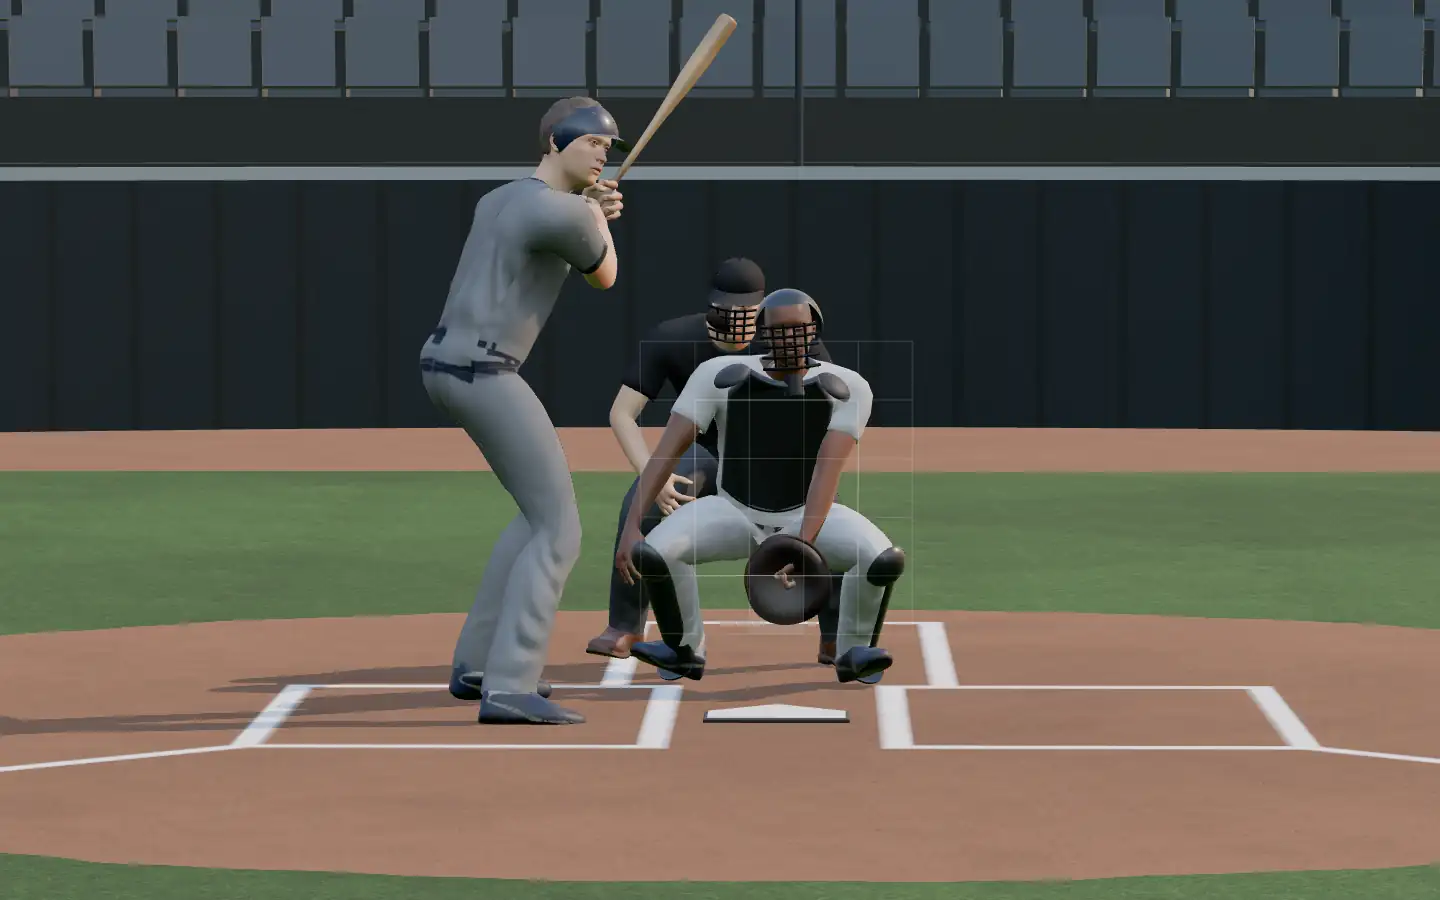
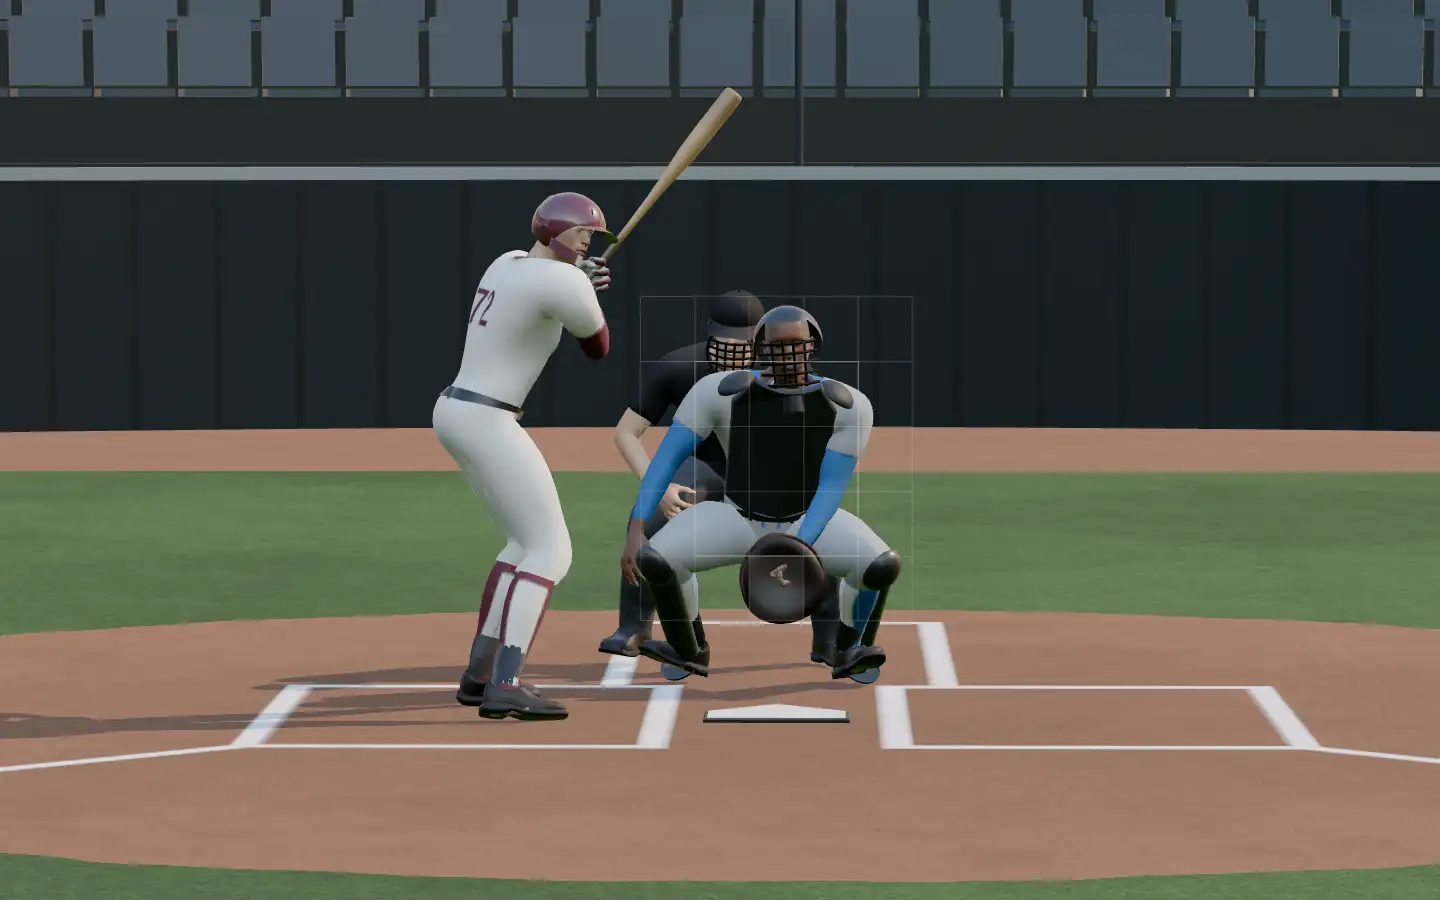
Shut The Door lab: posters of the new look
Claude-Session: https://claude.ai/code/session_01BGQBLpbhaEqJbgB2SftqB3

Changed region(s): [[0.0938, 0.0, 0.625, 0.8089], [0.0, 0.7778, 0.0625, 0.84]]

diff --git a/shut-the-door/lab/index.html b/shut-the-door/lab/index.html
@@ -26,8 +26,8 @@
 } }
 </script>
 <!-- stamp:preload:begin -->
-<link rel="preload" as="image" href="./assets/poster-phone.webp?h=581f5b3efa" media="(orientation: portrait)" fetchpriority="high">
-<link rel="preload" as="image" href="./assets/poster-desktop.webp?h=179185beca" media="(orientation: landscape)" fetchpriority="high">
+<link rel="preload" as="image" href="./assets/poster-phone.webp?h=b638ef170e" media="(orientation: portrait)" fetchpriority="high">
+<link rel="preload" as="image" href="./assets/poster-desktop.webp?h=58c8b648fd" media="(orientation: landscape)" fetchpriority="high">
 <link rel="modulepreload" href="./scene.js?v=11">
 <link rel="modulepreload" href="./load.js?v=3">
 <link rel="modulepreload" href="./field.js?v=3">
@@ -56,8 +56,8 @@
 <body>
 <canvas id="c"></canvas>
 <div id="load"><picture>
-  <source media="(orientation: landscape)" srcset="./assets/poster-desktop.webp?h=179185beca">
-  <img src="./assets/poster-phone.webp?h=581f5b3efa" alt="" fetchpriority="high" decoding="async"
+  <source media="(orientation: landscape)" srcset="./assets/poster-desktop.webp?h=58c8b648fd">
+  <img src="./assets/poster-phone.webp?h=b638ef170e" alt="" fetchpriority="high" decoding="async"
        onload="(window.__lab = window.__lab || {}).firstPaintMs = (window.__lab.firstPaintMs ?? performance.now())">
 </picture></div>
 <div id="hint" class="off">Tap to throw it again</div>

diff --git a/shut-the-door/lab/load.js b/shut-the-door/lab/load.js
@@ -30,8 +30,8 @@ export const ASSETS = {
   'packs/std-2025-diaz-cin.json': 'acc2987e3a',
   'packs/std-2025-scott-kc.json': 'd1b00281a4',
   'packs/std-2025-ws7-yamamoto.json': '2bbab8e2e6',
-  'poster-desktop.webp': '179185beca',
-  'poster-phone.webp': '581f5b3efa',
+  'poster-desktop.webp': '58c8b648fd',
+  'poster-phone.webp': 'b638ef170e',
   'tex/beard_mask.webp': '17ec25655e',
   'tex/concrete_color.webp': '0a126bec84',
   'tex/dirt_color.webp': '4b00ba1875',
